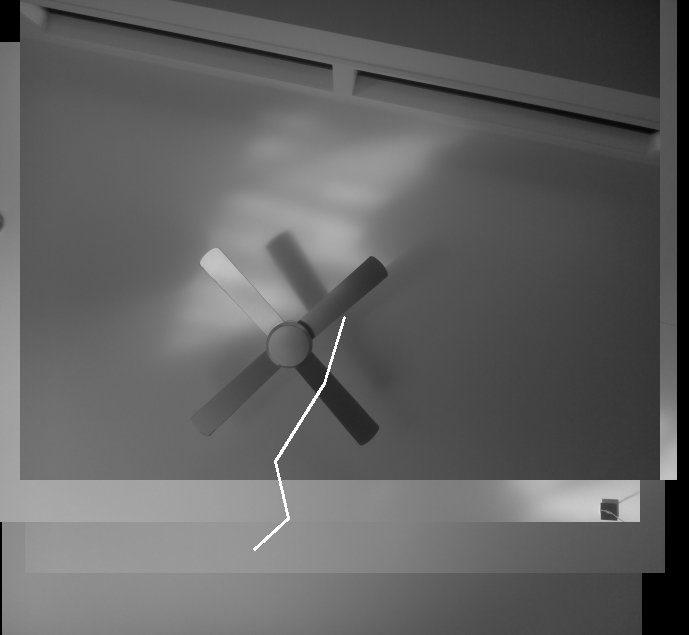
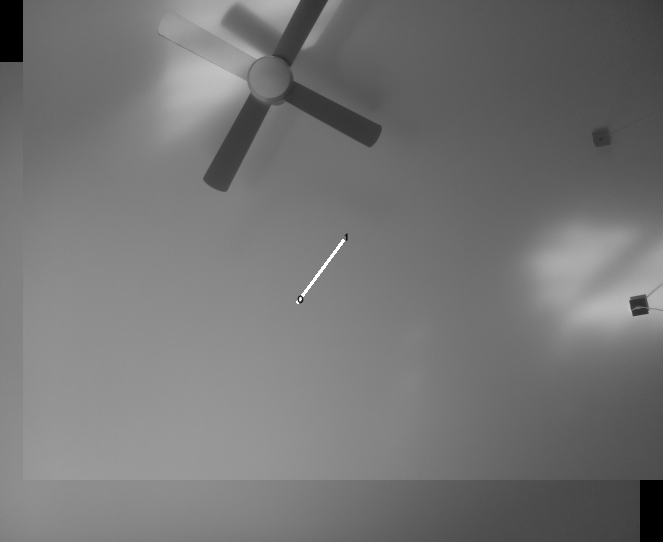
WIP - starting to diagnose an issue tracking the location on the "global" map

diff --git a/map_building/test.py b/map_building/test.py
@@ -72,7 +72,10 @@ def add_to_map(img_map, img_new, offset_x, offset_y):
         0:img_new.shape[1],
     ]
 
-    return img_result
+    return img_result, (  # Location in the new map of the center of the new image.
+        int(map_col_start + (img_new.shape[1] / 2)),
+        int(map_row_start + (img_new.shape[0] / 2)),
+    )
 
 
 def step(map_path, img_map, img_new):
@@ -90,39 +93,57 @@ def step(map_path, img_map, img_new):
 
     offset_x, offset_y = offsets(matches, kp_existing, kp_new)
 
-    img_updated_map = add_to_map(img_map, img_new, offset_x, offset_y)
+    img_updated_map, (x_center, y_center) = add_to_map(img_map, img_new, offset_x, offset_y)
+
+    print (map_path[-1], (x_center, y_center))
 
     updated_path = [(int(x - offset_x),
                      int(y - offset_y))
-                     for (x, y)
-                     in map_path]
-    updated_path.append((int(img_updated_map.shape[1] / 2), int(img_updated_map.shape[0] / 2)))
+                    for (x, y)
+                    in map_path]
+
+#    updated_path = map_path
+    updated_path.append((x_center, y_center))
+
+    print((x_center, y_center))
 
     return updated_path, img_updated_map
+
+
+def middle_coordinates(img):
+    """Return a tuple of (x, y) pixel coordinates."""
+    return (
+        int(img.shape[1] / 2),
+        int(img.shape[0] / 2)
+    )
 
 
 def process_test():
 
     img_map = None
     map_path = []
-    for file in glob.glob('img/*.jpg'):
+    for file in sorted(glob.glob('img/*.jpg'))[:2]:
 
         if img_map is None:
             img_map = cv2.imread(file, 0)
-            map_path = [(int(img_map.shape[1] / 2), int(img_map.shape[0] / 2))]
+            map_path.append(middle_coordinates(img_map))
             continue
 
         img_new = cv2.imread(file, 0)
         map_path, img_map = step(map_path, img_map, img_new)
 
-    print(map_path)
+    idx = 0
     start = map_path.pop(0)
     while True:
         if len(map_path) == 0:
             break
         next = map_path.pop(0)
         cv2.line(img_map, start, next, (255,0,0), 2)
+        cv2.putText(img_map,str(idx),start, cv2.FONT_HERSHEY_SIMPLEX, 0.3,(0,0,0),1,cv2.LINE_AA)
         start = next
+        idx += 1
+    cv2.putText(img_map,str(idx),start, cv2.FONT_HERSHEY_SIMPLEX, 0.3,(0,0,0),1,cv2.LINE_AA)
+
 
     cv2.imwrite('combined.png', img_map)
 
